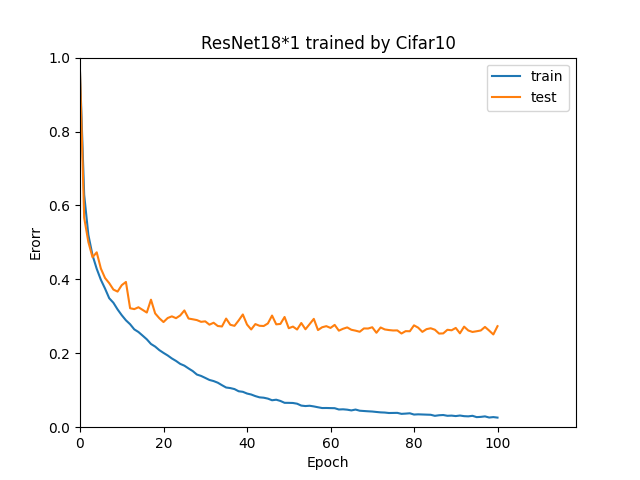
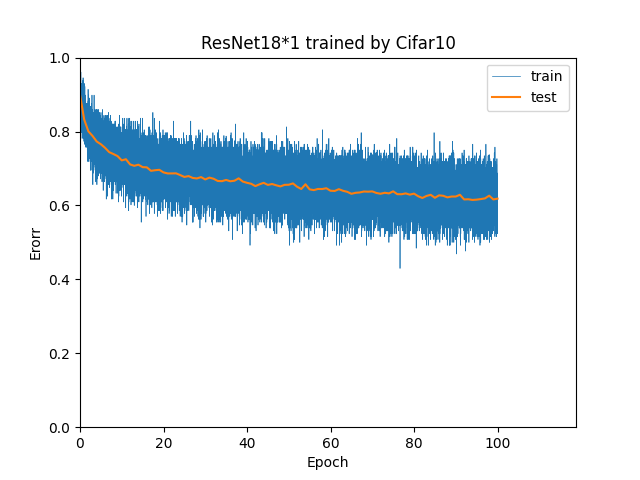
update

diff --git a/workspace/research/dd.py b/workspace/research/dd.py
@@ -7,7 +7,7 @@ import torchvision
 import torchvision.transforms as transforms;
 from sklearn.metrics import classification_report
 import math
-import torchvision.models as models
+from model import resnet18k 
 
 import argparse
 import random
@@ -179,17 +179,20 @@ def sub():
     test_set = torchvision.datasets.CIFAR10(root='./data', train=False, download=True, transform=transform_train)
     test_loader = torch.utils.data.DataLoader(test_set, batch_size=128, shuffle=True, num_workers=2)
     class_names = ('plane', 'car', 'bird', 'cat', 'dog', 'frog', 'ship', 'truck')
-    model = models.resnet18()
+    model = resnet18k.make_resnet18k(k=args.model_width)
     model = model.to(device)
     
     criterion = nn.CrossEntropyLoss().to(device)
     optimizer = optim.Adam(model.parameters(), lr=0.0001)
-    x = range(epoch + 1)
+    x1 = []
+    x2 = range(epoch + 1)
     trerr = []
     teerr = []
     trloss = []
     teloss = []
     train_data_save = []
+
+    x1.append(0)
     train_data_save.append(["epoch", "error", "loss"])
     train_acc, train_loss = test(model, device, test_loader, criterion)
     #test()を使ってtrainデータのerrorとlossの初期値を取得
@@ -207,19 +210,43 @@ def sub():
 
     for epoch in range(epoch):
         # Train and test a model.
-        train_acc, train_loss = train(model, device, train_loader, criterion, optimizer)
-        test_acc, test_loss = test(model, device, test_loader, criterion)
+        model.train()
+        #trainの各数値はbatchごとに出す
+        #calc_scoreの返却値のlossはbatch数で割っているので無視,loss.item()を用いる
+        for batich_idx, (inputs, targets) in enumerate(train_loader):
+            output_list = []
+            target_list = []
+            running_loss = 0.0
+            xpoint = 0.0 + epoch + (float(batich_idx + 1) / len(train_loader))
+            inputs, targets = inputs.to(device), targets.to(device)
+            outputs = model(inputs)
+            loss = criterion(outputs, targets)
 
-        trerr.append(1.0 - train_acc)
-        trloss.append(train_loss)
-        train_data_save.append([epoch + 1, 1.0 - train_acc, train_loss])
+            optimizer.zero_grad()
+            loss.backward()
+            optimizer.step()
+
+            output_list += [int(o.argmax()) for o in outputs]
+            target_list += [int(t) for t in targets]
+            running_loss += loss.item()
+
+            train_acc, train_loss = calc_score(output_list, target_list, running_loss, train_loader)
+            x1.append(xpoint)
+            trerr.append(1.0 - train_acc)
+            trloss.append(loss.item())
+            train_data_save.append([xpoint, 1.0 - train_acc, loss.item()])
+            # if batich_idx % 100 == 0 and batich_idx != 0:
+            #     stdout_temp = 'batch: {:>3}/{:<3}, train acc:{:<8}, train loss: {:<8}'
+            #     print(stdout_temp.format(batich_idx, len(train_loader), train_acc, loss.item()))
+            
+        test_acc, test_loss = test(model, device, test_loader, criterion)
 
         teerr.append(1.0 - test_acc)
         teloss.append(test_loss)
         test_data_save.append([epoch + 1, 1.0 - test_acc, test_loss])
         # Output score.
         stdout_temp = 'epoch: {:>3}, train acc: {:<8}, train loss: {:<8}, test acc: {:<8}, test loss: {:<8}'
-        print(stdout_temp.format(epoch+1, train_acc, train_loss, test_acc, test_loss))
+        print(stdout_temp.format(epoch+1, train_acc, loss.item(), test_acc, test_loss))
     
     with open('./csv/resnet18*' + str(args.model_width) + '-cifar10-train.csv','w') as file:
         writer = csv.writer(file)
@@ -235,8 +262,8 @@ def sub():
     plt.ylim(0, 1)
     plt.xlabel("Epoch")
     plt.ylabel("Erorr")
-    plt.plot(x, trerr, label='train')
-    plt.plot(x, teerr, label='test')
+    plt.plot(x1, trerr, label='train', linewidth=0.5)
+    plt.plot(x2, teerr, label='test')
     plt.legend(loc='upper right')
     plt.savefig("./output/ResNet18*" + str(args.model_width) + "TrainedByCifar10.png")
 
@@ -248,8 +275,8 @@ def sub():
     plt.ylim(0, max(max(trloss) * 1.2, max(teloss) * 1.2))
     plt.xlabel("Epoch")
     plt.ylabel("Loss")
-    plt.plot(x, trloss, label='train')
-    plt.plot(x, teloss, label='test')
+    plt.plot(x1, trloss, label='train', linewidth=0.5)
+    plt.plot(x2, teloss, label='test')
     plt.legend(loc='upper right')
     plt.savefig("./output/loss-ResNet18*" + str(args.model_width) + "TrainedByCifar10.png")
 
